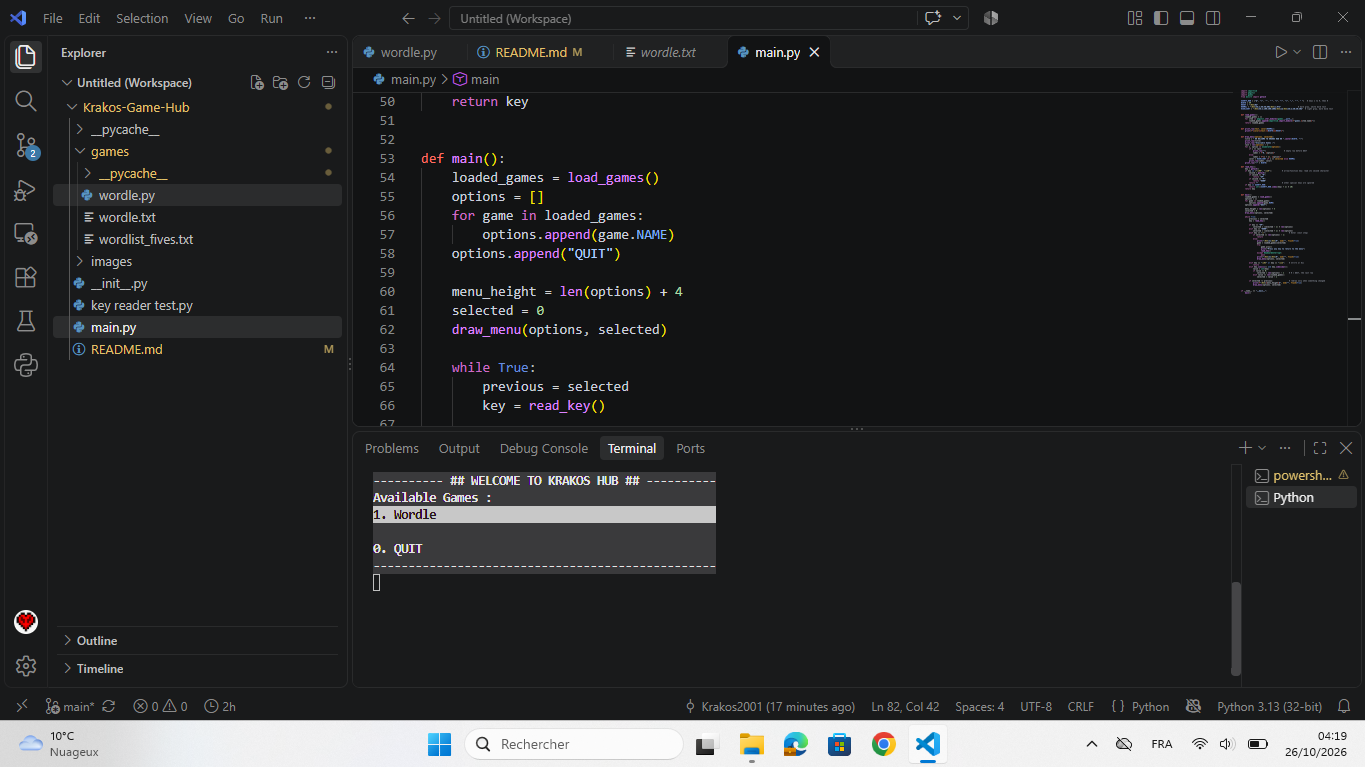
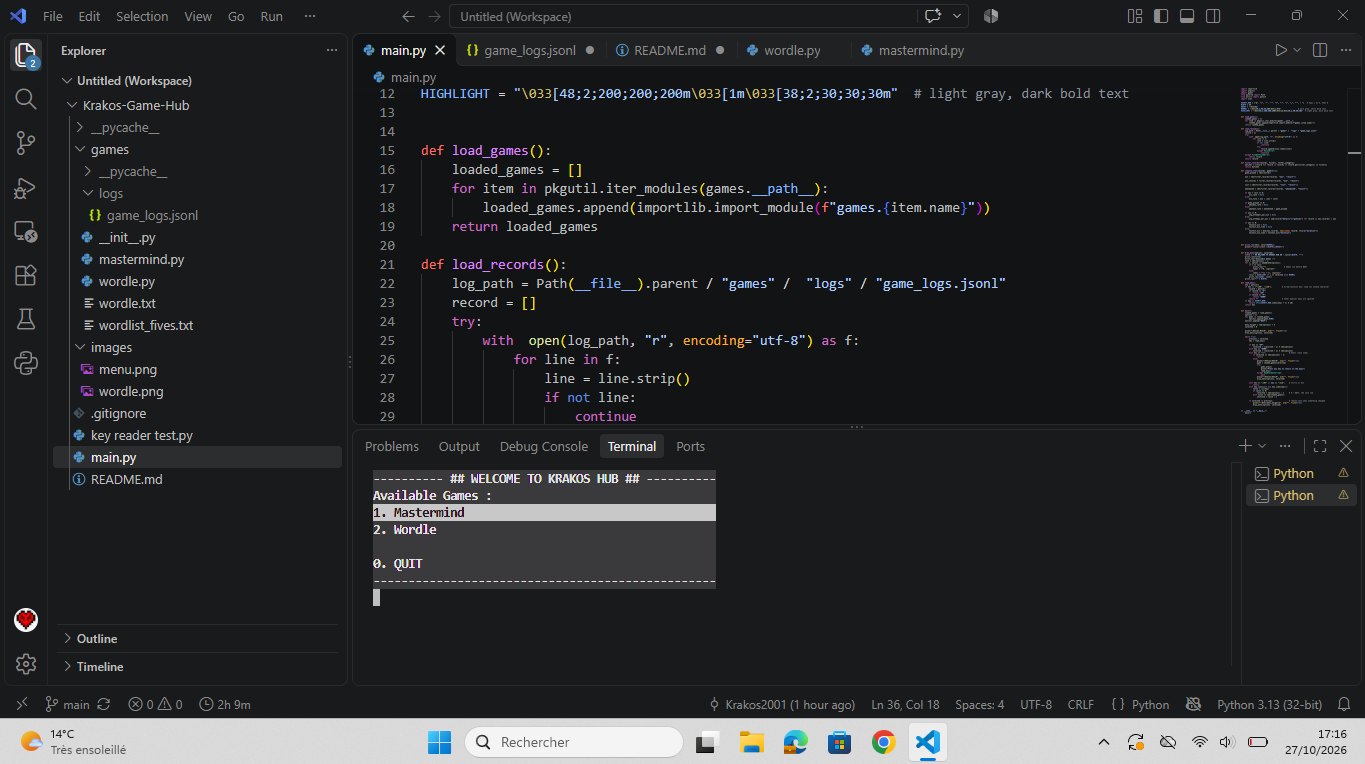
Rewrote the AI README for a human-made one

diff --git a/README.md b/README.md
@@ -1,28 +1,42 @@
 # Krakos Game Hub
 
-A terminal hub for mini-games, written in Python. Pick a game from an interactive menu, play it, and come back. The first games are **Wordle** and **Mastermind** where you type directly into the tiles, just like the real thing.
+# Description
+
+A in-terminal hub for mini-games. Play games from a selection of homemade copies of the greatest web games. Your attemps are saved and are tracked with achievements. Made in Python
 
 > Made for [Pixl](https://pixl.hackclub.com/refers?code=9B6LZH) by Hack Club.
 
+### Hub menu
 ![Hub menu](images/menu.png)
+
+### Wordle board
 ![Wordle board](images/wordle.png)
+
+### Mastermind board
+![Mastermind board](images/mastermind.png)
 
 ## Features
 
-- **Interactive menu**: move with the arrow keys or jump to a game with its number, then press Enter.
-- **Automatic game discovery**: drop a new game in the `games/` folder and it shows up in the menu by itself.
-- **Wordle with a live board**: six rows of tiles, you type inside the tiles, Backspace works, invalid words are refused, and the row turns green, yellow or gray when you validate.
-- **Two word lists**: a smaller list of common words for the solutions, and a much larger one for the words you are allowed to guess.
-- **Colors with ANSI escape codes**: no external libraries, only Python's standard library.
+- **No UI**: My majestic graphics are made with ANSI escape codes, no external libraries.
+- **Interact with the terminal**, isn't played with consecutive lines, but the program actually deletes/modify lines to simulate a UI.
+- **Automatic game discovery**: more of a coding ease than an user feature, but adding game is made easy: drop a new game in the `games/` folder and it shows up in the menu by itself (see **Adding a game** for more info).
+- **Game tracking and achievements**: WIP but every win, loss or even abandoned game is tracked to give the most precise stats you could imagine (yes I'm a nerd, how could you tell).
 
 ## Requirements
 
-- **Windows only** for now, because key presses are read with the `msvcrt` module.
+- **Windows only** for now as key presses are read with the `msvcrt` module, might integrate Linux and Mac in future version.
 - Python 3.13 (the version it was tested with).
-- Run it in a real terminal such as Windows Terminal, PowerShell or the VS Code integrated terminal. The VS Code *Output* panel does not work.
-- Make the terminal window tall enough to show the whole menu and the six-row board (about 12 lines is safe).
+- Runs directly in the IDE, so any code editor is fine.
+- Make the terminal window tall enough to show the different menus and screens (about 12 lines is safe).
+- Perfomance wise, its really not an issue lol, here are my specs:
+    * **RAM** : 4GB @ 1867MHz
+    * **SSD** : 120GB but about 2Mo is fine
+    * **CPU** : Intel(R) Core(TM) m3-8100Y CPU @ 1.10GHz (1.61 GHz)
+    * **GPU** : iGPU with 128MB **VRAM**
 
 ## How to run
+
+Download the code and run main.py, or use the following commands:
 
 ```
 git clone https://github.com/Krakos2001/Krakos-Game-Hub.git
@@ -61,6 +75,20 @@ You have six attempts. After each guess:
 - **Yellow**: the letter is in the word, but in another place.
 - **Gray**: the letter is not in the word (or all its copies are already accounted for).
 
+### In Mastermind
+
+| Key | Action |
+|---|---|
+| Letters associated with colors | Type the corresponding color |
+| Backspace | Delete the last color |
+| Enter | Validate the combination |
+| Ctrl+C | Leave the game and go back to the hub |
+
+You have 4 attemps. After each attempts:
+
+- The number in the **Red** box at the right correspond to the number of colors that were at their exact positions
+- The number in the **White** box at the right correspond to the number of colors that are in the key (excluding one counted in the **Red** box) but weren't in their right positions.
+
 ## Project structure
 
 ```
@@ -68,9 +96,13 @@ Krakos-Game-Hub/
 ├── main.py              # the hub: finds the games and shows the menu
 └── games/
     ├── __init__.py      # makes games/ a package (empty)
+    |── mastermind.py    # the Mastemind game
     ├── wordle.py        # the Wordle game
-    ├── wordle.txt       # solution words
-    └── wordlist_fives.txt   # accepted guesses
+    ├── wordle.txt       # solution words for Wordle
+    └── wordlist_fives.txt   # accepted guesses for Wordle
+        └── logs/
+            └── game_logs.jsonl     # created when a game is saved, hold the records of game
+
 ```
 
 ## Adding a game
@@ -98,11 +130,10 @@ Restart the hub and "My Game" appears in the menu. If your game needs data files
 
 ## Status and ideas
 
-Working now: the hub, Wordle, and the keyboard navigation.
+Working now: better logging of games, achievements, stats display
 
 Ideas for later:
 
 - More mini-games
-- Esc to go back to the hub from inside a game
 - Cross-platform key reading (Mac and Linux)
-- A player name and a score shared between games
+- A multiplayer, and maybe an Online mode
